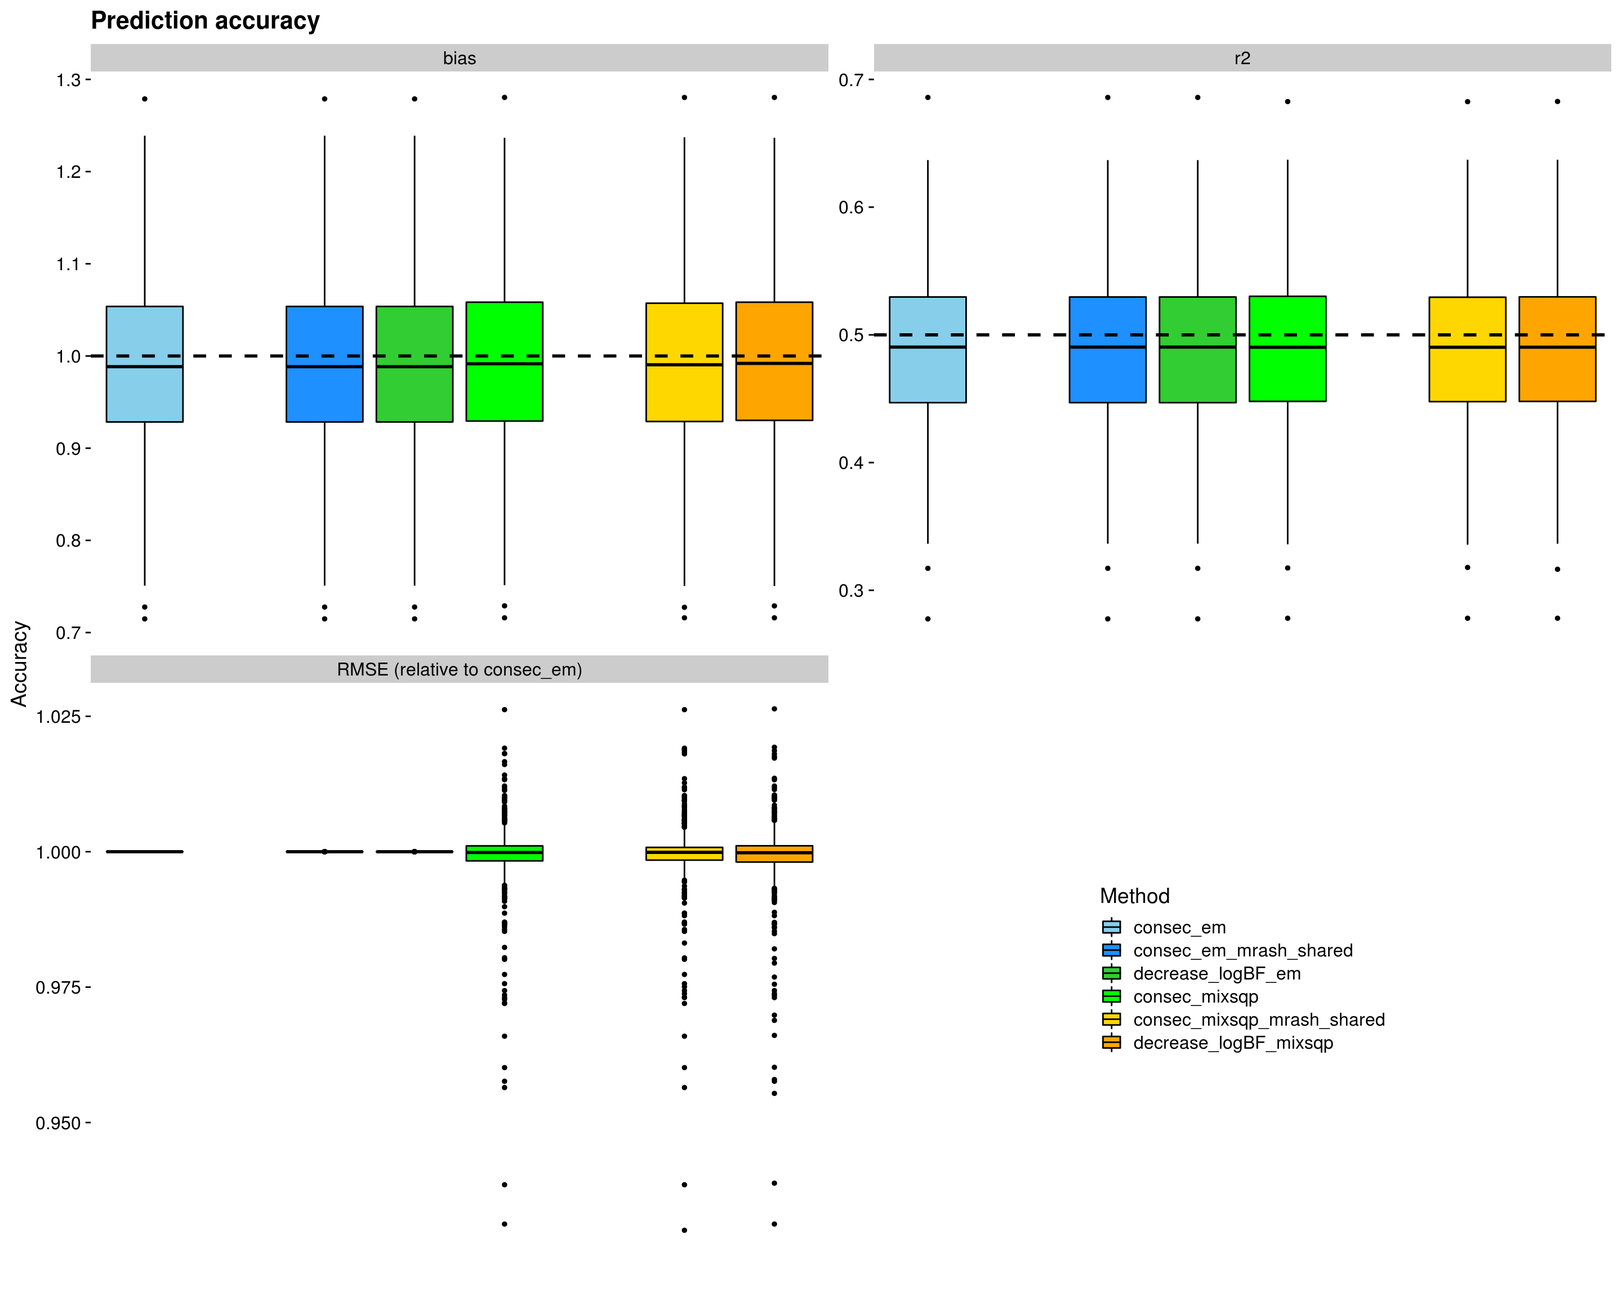
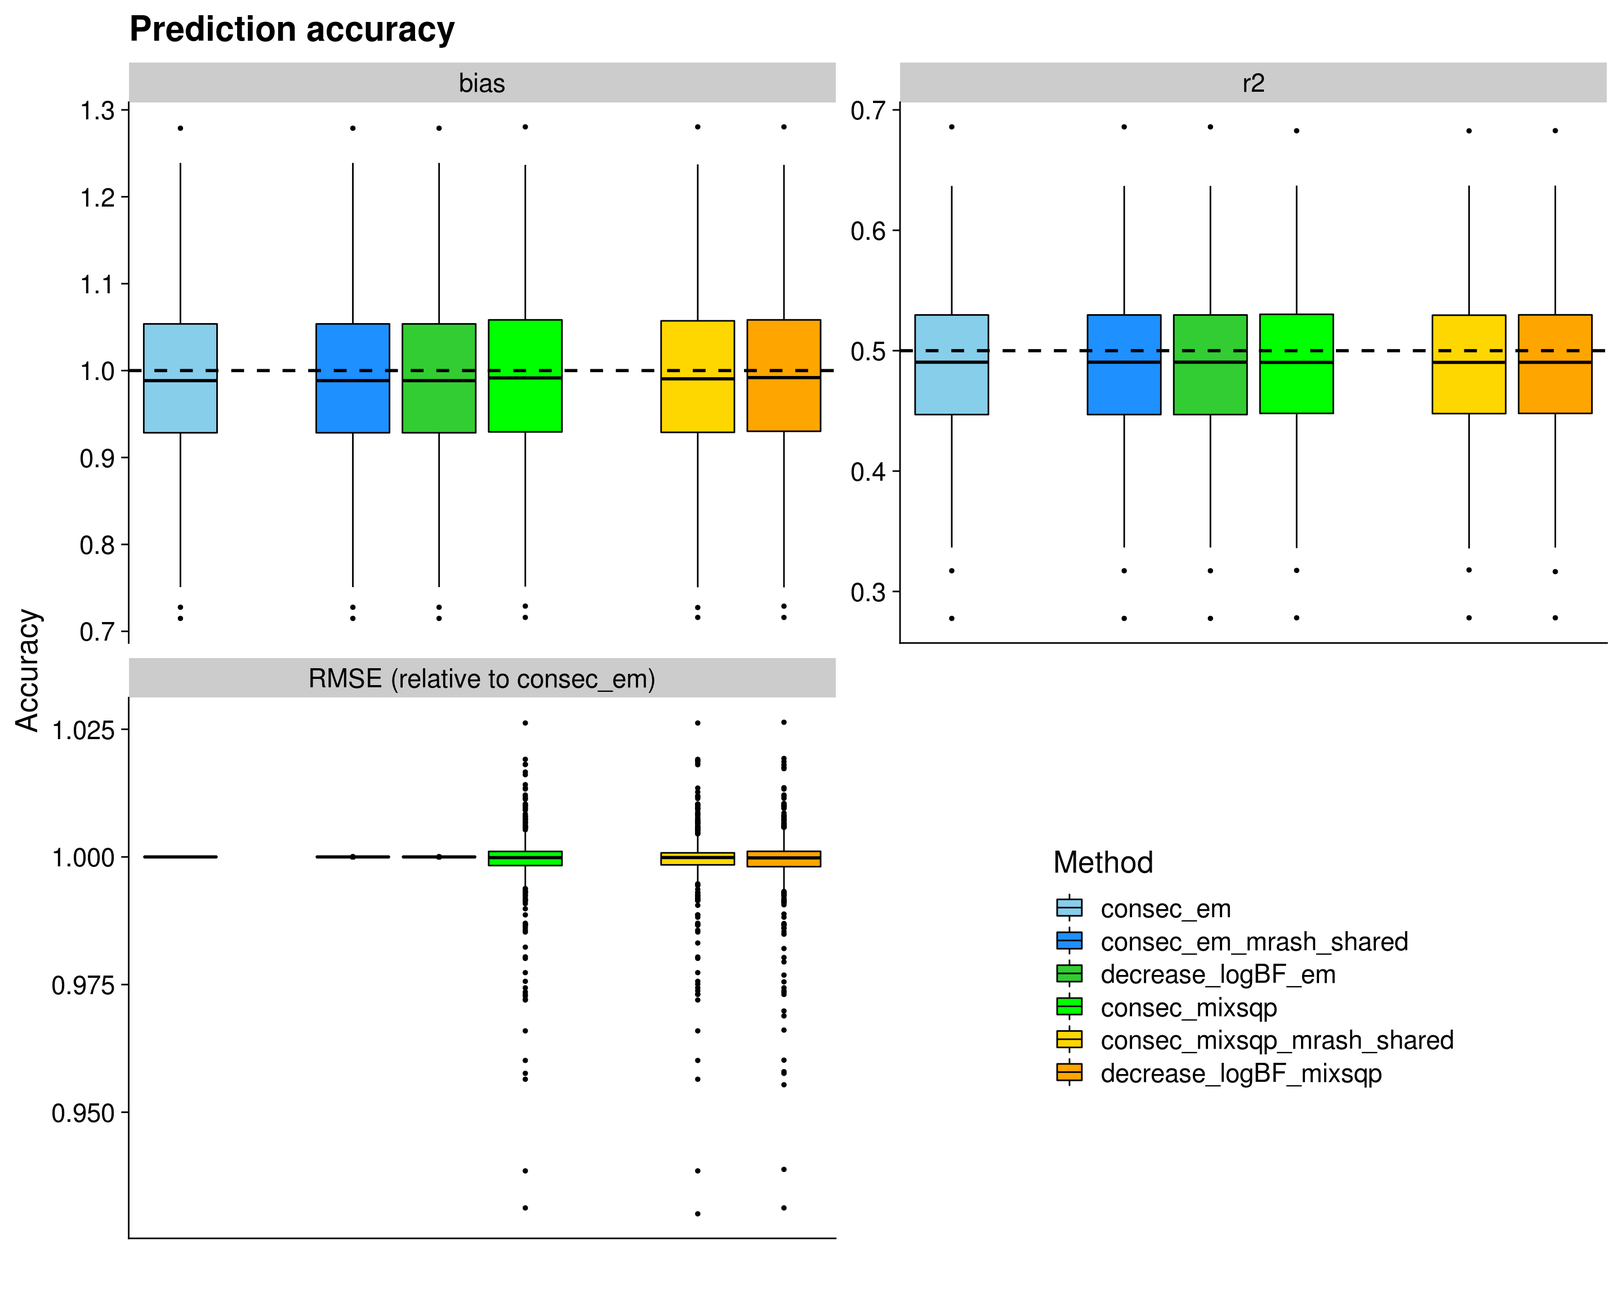
Build site.

diff --git a/docs/results_indepX_lowcorrV_sharedB.html b/docs/results_indepX_lowcorrV_sharedB.html
@@ -355,16 +355,16 @@ This reproducible <a href="http://rmarkdown.rstudio.com">R Markdown</a> analysis
 <div class="panel panel-default">
 <div class="panel-heading">
 <p class="panel-title">
-<a data-toggle="collapse" data-parent="#workflowr-checks" href="#strongRepositoryversionstrongahrefhttpsgithubcomfmorgantemrmashtesttreef6f65c4002c019f7d899a4d79d28e91fff5847c2targetblankf6f65c4a"> <span class="glyphicon glyphicon-ok text-success" aria-hidden="true"></span> <strong>Repository version:</strong> <a href="https://github.com/fmorgante/mr_mash_test/tree/f6f65c4002c019f7d899a4d79d28e91fff5847c2" target="_blank">f6f65c4</a> </a>
+<a data-toggle="collapse" data-parent="#workflowr-checks" href="#strongRepositoryversionstrongahrefhttpsgithubcomfmorgantemrmashtesttree26aee43125ae5d59b301dd6adbc001dc3285544etargetblank26aee43a"> <span class="glyphicon glyphicon-ok text-success" aria-hidden="true"></span> <strong>Repository version:</strong> <a href="https://github.com/fmorgante/mr_mash_test/tree/26aee43125ae5d59b301dd6adbc001dc3285544e" target="_blank">26aee43</a> </a>
 </p>
 </div>
[2 lines of base64/hex data omitted]
 <div class="panel-body">
 <p>
 Great! You are using Git for version control. Tracking code development and connecting the code version to the results is critical for reproducibility.
 </p>
 <p>
-The results in this page were generated with repository version <a href="https://github.com/fmorgante/mr_mash_test/tree/f6f65c4002c019f7d899a4d79d28e91fff5847c2" target="_blank">f6f65c4</a>. See the <em>Past versions</em> tab to see a history of the changes made to the R Markdown and HTML files.
+The results in this page were generated with repository version <a href="https://github.com/fmorgante/mr_mash_test/tree/26aee43125ae5d59b301dd6adbc001dc3285544e" target="_blank">26aee43</a>. See the <em>Past versions</em> tab to see a history of the changes made to the R Markdown and HTML files.
 </p>
 <p>
 Note that you need to be careful to ensure that all relevant files for the analysis have been committed to Git prior to generating the results (you can use <code>wflow_publish</code> or <code>wflow_git_commit</code>). workflowr only checks the R Markdown file, but you know if there are other scripts or data files that it depends on. Below is the status of the Git repository when the results were generated:
@@ -422,6 +422,40 @@ Message
 </tr>
 </thead>
 <tbody>
+<tr>
+<td>
+Rmd
+</td>
+<td>
+<a href="https://github.com/fmorgante/mr_mash_test/blob/26aee43125ae5d59b301dd6adbc001dc3285544e/analysis/results_indepX_lowcorrV_sharedB.Rmd" target="_blank">26aee43</a>
+</td>
+<td>
+fmorgante
+</td>
+<td>
+2020-04-16
+</td>
+<td>
+Increase font size
+</td>
+</tr>
+<tr>
+<td>
+html
+</td>
+<td>
+<a href="https://rawcdn.githack.com/fmorgante/mr_mash_test/8f4456e501a4a2fc84ce79a22b019057373d7816/docs/results_indepX_lowcorrV_sharedB.html" target="_blank">8f4456e</a>
+</td>
+<td>
+fmorgante
+</td>
+<td>
+2020-04-16
+</td>
+<td>
+Build site.
+</td>
+</tr>
 <tr>
 <td>
 html
@@ -634,7 +668,7 @@ dsc_out$simulate.V_offdiag_scale &lt;- NULL</code></pre>
 [5,] 0.15 0.15 0.15 0.15 1.00</code></pre>
 <p><em>mr.mash</em> was fitted to the training data (80% of the data) updating V and updating the prior weights. We investigate a few combinations of methods to update the prior weights (i.e., EM and mixSQP), orderings of the coordinate ascent updates (i.e., consecutive and decreasing logBF from a multivariate simple linear regression with MASH prior), and initialization of the posterior means of the regression coefficients (i.e., 0, from <em>mr.ash</em> assuming independent effects across tissues, and from <em>mr.ash</em> assuming shared effects across tissues). The mixture prior consisted of 166 components defined by a few canonical matrices correpsonding to different settings of effect sharing/specificity (i.e., zero, singletons, independent, low heterogeneity, medium heterogeneity, high heterogeneity, shared) scaled by a grid of values (i.e., from 0.1 to 2.1 in steps of 0.2). The same grid was used in <em>mr.ash</em> with the addition of 0. Convergence was declared when the maximum difference in the posterior mean of the regression coefficients between two successive iterations was smaller than 1e-4.</p>
 <p>Then, responses were predicted on the test data (20% of the data).</p>
-<p>Here, we evaluate the accuracy of prediction assessed by r^2 and bias (slope) from the regression of the true response on the predicted response, and the relative mean square error (RMSE) in the test data. The boxplots are across simulations and responses.</p>
+<p>Here, we evaluate the accuracy of prediction assessed by <span class="math">\(r^2\)</span> and bias (slope) from the regression of the true response on the predicted response, and the relative mean square error (RMSE) in the test data. The boxplots are across simulations and responses.</p>
 <pre class="r"><code>###Convert from list to data.frame for plotting
 dsc_plots &lt;- convert_dsc_to_dataframe(dsc_out)
 
@@ -665,8 +699,8 @@ p &lt;- ggplot(dsc_plots, aes_string(x = &quot;method_fac&quot;, y = &quot;score
     scale_fill_manual(values = colors) +
     labs(x = &quot;&quot;, y = &quot;Accuracy&quot;, title = &quot;Prediction accuracy&quot;, fill=&quot;Method&quot;) +
     geom_hline(data=hlines, aes(yintercept = max_val), linetype=&quot;dashed&quot;, size=1) +
-    theme_cowplot(font_size = 14) +
-    theme(axis.line = element_blank(), axis.text.x = element_blank(), axis.ticks.x = element_blank())
+    theme_cowplot(font_size = 20) +
+    theme(axis.text.x = element_blank(), axis.ticks.x = element_blank())
 
 shift_legend(p)</code></pre>
 <pre><code>Warning: Removed 3000 rows containing non-finite values (stat_boxplot).
@@ -717,8 +751,8 @@ fmorgante
   Ipaper::geom_boxplot2(color = &quot;black&quot;, outlier.size = 1, width = 0.85, width.errorbar = 0) +
   scale_fill_manual(values = colors) +
   labs(x = &quot;&quot;, y = &quot;Accuracy&quot;, title = &quot;RMSE (relative to consec_em)&quot;, fill=&quot;Method&quot;) +
-  theme_cowplot(font_size = 14) +
-  theme(axis.line = element_blank(), axis.text.x = element_blank(), axis.ticks.x = element_blank())
+  theme_cowplot(font_size = 20) +
+  theme(axis.text.x = element_blank(), axis.ticks.x = element_blank())
 
 print(p_rmse_nooutliers)</code></pre>
 <pre><code>Warning: Removed 1000 rows containing non-finite values (stat_boxplot).</code></pre>
@@ -760,7 +794,7 @@ fmorgante
 </table>
 </div>
 </div>
-<p>Here, we look at the elapsed time (log_{10} seconds) of <em>mr.mash</em>. Note that this time does not include the run time of <em>mr.ash</em> in the cases where we used it to initialize the posterior means of the regression coefficients.</p>
+<p>Here, we look at the elapsed time (<span class="math">\(log_{10}\)</span> seconds) of <em>mr.mash</em>. Note that this time does not include the run time of <em>mr.ash</em> in the cases where we used it to initialize the posterior means of the regression coefficients.</p>
 <pre class="r"><code>dsc_plots_time &lt;- dsc_plots[which(dsc_plots$response==1 &amp; dsc_plots$score_metric==&quot;r2&quot;), 
                           -which(colnames(dsc_plots) %in% c(&quot;score_metric&quot;, &quot;score_value&quot;, &quot;response&quot;))]
 
@@ -769,8 +803,8 @@ p_time &lt;- ggplot(dsc_plots_time, aes_string(x = &quot;method_fac&quot;, y = &
   scale_fill_manual(values = colors) +
   scale_y_continuous(trans=&#39;log10&#39;) +
   labs(x = &quot;&quot;, y = &quot;Elapsed time (log10(seconds))&quot;,title = &quot;Run time&quot;, fill=&quot;Method&quot;) +
-  theme_cowplot(font_size = 14) +
-  theme(axis.line = element_blank(), axis.text.x = element_blank(), axis.ticks.x = element_blank())
+  theme_cowplot(font_size = 20) +
+  theme(axis.text.x = element_blank(), axis.ticks.x = element_blank())
 
 print(p_time)</code></pre>
 <pre><code>Warning: Removed 1 rows containing non-finite values (stat_boxplot).</code></pre>

diff --git a/docs/results_convergence.html b/docs/results_convergence.html
@@ -355,16 +355,16 @@ This reproducible <a href="http://rmarkdown.rstudio.com">R Markdown</a> analysis
 <div class="panel panel-default">
 <div class="panel-heading">
 <p class="panel-title">
-<a data-toggle="collapse" data-parent="#workflowr-checks" href="#strongRepositoryversionstrongahrefhttpsgithubcomfmorgantemrmashtesttreef6f65c4002c019f7d899a4d79d28e91fff5847c2targetblankf6f65c4a"> <span class="glyphicon glyphicon-ok text-success" aria-hidden="true"></span> <strong>Repository version:</strong> <a href="https://github.com/fmorgante/mr_mash_test/tree/f6f65c4002c019f7d899a4d79d28e91fff5847c2" target="_blank">f6f65c4</a> </a>
+<a data-toggle="collapse" data-parent="#workflowr-checks" href="#strongRepositoryversionstrongahrefhttpsgithubcomfmorgantemrmashtesttree26aee43125ae5d59b301dd6adbc001dc3285544etargetblank26aee43a"> <span class="glyphicon glyphicon-ok text-success" aria-hidden="true"></span> <strong>Repository version:</strong> <a href="https://github.com/fmorgante/mr_mash_test/tree/26aee43125ae5d59b301dd6adbc001dc3285544e" target="_blank">26aee43</a> </a>
 </p>
 </div>
[2 lines of base64/hex data omitted]
 <div class="panel-body">
 <p>
 Great! You are using Git for version control. Tracking code development and connecting the code version to the results is critical for reproducibility.
 </p>
 <p>
-The results in this page were generated with repository version <a href="https://github.com/fmorgante/mr_mash_test/tree/f6f65c4002c019f7d899a4d79d28e91fff5847c2" target="_blank">f6f65c4</a>. See the <em>Past versions</em> tab to see a history of the changes made to the R Markdown and HTML files.
+The results in this page were generated with repository version <a href="https://github.com/fmorgante/mr_mash_test/tree/26aee43125ae5d59b301dd6adbc001dc3285544e" target="_blank">26aee43</a>. See the <em>Past versions</em> tab to see a history of the changes made to the R Markdown and HTML files.
 </p>
 <p>
 Note that you need to be careful to ensure that all relevant files for the analysis have been committed to Git prior to generating the results (you can use <code>wflow_publish</code> or <code>wflow_git_commit</code>). workflowr only checks the R Markdown file, but you know if there are other scripts or data files that it depends on. Below is the status of the Git repository when the results were generated:
@@ -422,6 +422,23 @@ Message
 </tr>
 </thead>
 <tbody>
+<tr>
+<td>
+html
+</td>
+<td>
+<a href="https://rawcdn.githack.com/fmorgante/mr_mash_test/8f4456e501a4a2fc84ce79a22b019057373d7816/docs/results_convergence.html" target="_blank">8f4456e</a>
+</td>
+<td>
+fmorgante
+</td>
+<td>
+2020-04-16
+</td>
+<td>
+Build site.
+</td>
+</tr>
 <tr>
 <td>
 html

diff --git a/docs/results_accuracy.html b/docs/results_accuracy.html
@@ -355,16 +355,16 @@ This reproducible <a href="http://rmarkdown.rstudio.com">R Markdown</a> analysis
 <div class="panel panel-default">
 <div class="panel-heading">
 <p class="panel-title">
-<a data-toggle="collapse" data-parent="#workflowr-checks" href="#strongRepositoryversionstrongahrefhttpsgithubcomfmorgantemrmashtesttreef6f65c4002c019f7d899a4d79d28e91fff5847c2targetblankf6f65c4a"> <span class="glyphicon glyphicon-ok text-success" aria-hidden="true"></span> <strong>Repository version:</strong> <a href="https://github.com/fmorgante/mr_mash_test/tree/f6f65c4002c019f7d899a4d79d28e91fff5847c2" target="_blank">f6f65c4</a> </a>
+<a data-toggle="collapse" data-parent="#workflowr-checks" href="#strongRepositoryversionstrongahrefhttpsgithubcomfmorgantemrmashtesttree26aee43125ae5d59b301dd6adbc001dc3285544etargetblank26aee43a"> <span class="glyphicon glyphicon-ok text-success" aria-hidden="true"></span> <strong>Repository version:</strong> <a href="https://github.com/fmorgante/mr_mash_test/tree/26aee43125ae5d59b301dd6adbc001dc3285544e" target="_blank">26aee43</a> </a>
 </p>
 </div>
[2 lines of base64/hex data omitted]
 <div class="panel-body">
 <p>
 Great! You are using Git for version control. Tracking code development and connecting the code version to the results is critical for reproducibility.
 </p>
 <p>
-The results in this page were generated with repository version <a href="https://github.com/fmorgante/mr_mash_test/tree/f6f65c4002c019f7d899a4d79d28e91fff5847c2" target="_blank">f6f65c4</a>. See the <em>Past versions</em> tab to see a history of the changes made to the R Markdown and HTML files.
+The results in this page were generated with repository version <a href="https://github.com/fmorgante/mr_mash_test/tree/26aee43125ae5d59b301dd6adbc001dc3285544e" target="_blank">26aee43</a>. See the <em>Past versions</em> tab to see a history of the changes made to the R Markdown and HTML files.
 </p>
 <p>
 Note that you need to be careful to ensure that all relevant files for the analysis have been committed to Git prior to generating the results (you can use <code>wflow_publish</code> or <code>wflow_git_commit</code>). workflowr only checks the R Markdown file, but you know if there are other scripts or data files that it depends on. Below is the status of the Git repository when the results were generated:
@@ -422,6 +422,23 @@ Message
 </tr>
 </thead>
 <tbody>
+<tr>
+<td>
+html
+</td>
+<td>
+<a href="https://rawcdn.githack.com/fmorgante/mr_mash_test/8f4456e501a4a2fc84ce79a22b019057373d7816/docs/results_accuracy.html" target="_blank">8f4456e</a>
+</td>
+<td>
+fmorgante
+</td>
+<td>
+2020-04-16
+</td>
+<td>
+Build site.
+</td>
+</tr>
 <tr>
 <td>
 html

diff --git a/docs/license.html b/docs/license.html
@@ -291,16 +291,16 @@ This reproducible <a href="http://rmarkdown.rstudio.com">R Markdown</a> analysis
 <div class="panel panel-default">
 <div class="panel-heading">
 <p class="panel-title">
-<a data-toggle="collapse" data-parent="#workflowr-checks" href="#strongRepositoryversionstrongahrefhttpsgithubcomfmorgantemrmashtesttreef6f65c4002c019f7d899a4d79d28e91fff5847c2targetblankf6f65c4a"> <span class="glyphicon glyphicon-ok text-success" aria-hidden="true"></span> <strong>Repository version:</strong> <a href="https://github.com/fmorgante/mr_mash_test/tree/f6f65c4002c019f7d899a4d79d28e91fff5847c2" target="_blank">f6f65c4</a> </a>
+<a data-toggle="collapse" data-parent="#workflowr-checks" href="#strongRepositoryversionstrongahrefhttpsgithubcomfmorgantemrmashtesttree26aee43125ae5d59b301dd6adbc001dc3285544etargetblank26aee43a"> <span class="glyphicon glyphicon-ok text-success" aria-hidden="true"></span> <strong>Repository version:</strong> <a href="https://github.com/fmorgante/mr_mash_test/tree/26aee43125ae5d59b301dd6adbc001dc3285544e" target="_blank">26aee43</a> </a>
 </p>
 </div>
[2 lines of base64/hex data omitted]
 <div class="panel-body">
 <p>
 Great! You are using Git for version control. Tracking code development and connecting the code version to the results is critical for reproducibility.
 </p>
 <p>
-The results in this page were generated with repository version <a href="https://github.com/fmorgante/mr_mash_test/tree/f6f65c4002c019f7d899a4d79d28e91fff5847c2" target="_blank">f6f65c4</a>. See the <em>Past versions</em> tab to see a history of the changes made to the R Markdown and HTML files.
+The results in this page were generated with repository version <a href="https://github.com/fmorgante/mr_mash_test/tree/26aee43125ae5d59b301dd6adbc001dc3285544e" target="_blank">26aee43</a>. See the <em>Past versions</em> tab to see a history of the changes made to the R Markdown and HTML files.
 </p>
 <p>
 Note that you need to be careful to ensure that all relevant files for the analysis have been committed to Git prior to generating the results (you can use <code>wflow_publish</code> or <code>wflow_git_commit</code>). workflowr only checks the R Markdown file, but you know if there are other scripts or data files that it depends on. Below is the status of the Git repository when the results were generated:
@@ -358,6 +358,23 @@ Message
 </tr>
 </thead>
 <tbody>
+<tr>
+<td>
+html
+</td>
+<td>
+<a href="https://rawcdn.githack.com/fmorgante/mr_mash_test/8f4456e501a4a2fc84ce79a22b019057373d7816/docs/license.html" target="_blank">8f4456e</a>
+</td>
+<td>
+fmorgante
+</td>
+<td>
+2020-04-16
+</td>
+<td>
+Build site.
+</td>
+</tr>
 <tr>
 <td>
 html

diff --git a/docs/about.html b/docs/about.html
@@ -291,16 +291,16 @@ This reproducible <a href="http://rmarkdown.rstudio.com">R Markdown</a> analysis
 <div class="panel panel-default">
 <div class="panel-heading">
 <p class="panel-title">
-<a data-toggle="collapse" data-parent="#workflowr-checks" href="#strongRepositoryversionstrongahrefhttpsgithubcomfmorgantemrmashtesttreef6f65c4002c019f7d899a4d79d28e91fff5847c2targetblankf6f65c4a"> <span class="glyphicon glyphicon-ok text-success" aria-hidden="true"></span> <strong>Repository version:</strong> <a href="https://github.com/fmorgante/mr_mash_test/tree/f6f65c4002c019f7d899a4d79d28e91fff5847c2" target="_blank">f6f65c4</a> </a>
+<a data-toggle="collapse" data-parent="#workflowr-checks" href="#strongRepositoryversionstrongahrefhttpsgithubcomfmorgantemrmashtesttree26aee43125ae5d59b301dd6adbc001dc3285544etargetblank26aee43a"> <span class="glyphicon glyphicon-ok text-success" aria-hidden="true"></span> <strong>Repository version:</strong> <a href="https://github.com/fmorgante/mr_mash_test/tree/26aee43125ae5d59b301dd6adbc001dc3285544e" target="_blank">26aee43</a> </a>
 </p>
 </div>
[2 lines of base64/hex data omitted]
 <div class="panel-body">
 <p>
 Great! You are using Git for version control. Tracking code development and connecting the code version to the results is critical for reproducibility.
 </p>
 <p>
-The results in this page were generated with repository version <a href="https://github.com/fmorgante/mr_mash_test/tree/f6f65c4002c019f7d899a4d79d28e91fff5847c2" target="_blank">f6f65c4</a>. See the <em>Past versions</em> tab to see a history of the changes made to the R Markdown and HTML files.
+The results in this page were generated with repository version <a href="https://github.com/fmorgante/mr_mash_test/tree/26aee43125ae5d59b301dd6adbc001dc3285544e" target="_blank">26aee43</a>. See the <em>Past versions</em> tab to see a history of the changes made to the R Markdown and HTML files.
 </p>
 <p>
 Note that you need to be careful to ensure that all relevant files for the analysis have been committed to Git prior to generating the results (you can use <code>wflow_publish</code> or <code>wflow_git_commit</code>). workflowr only checks the R Markdown file, but you know if there are other scripts or data files that it depends on. Below is the status of the Git repository when the results were generated:
@@ -358,6 +358,23 @@ Message
 </tr>
 </thead>
 <tbody>
+<tr>
+<td>
+html
+</td>
+<td>
+<a href="https://rawcdn.githack.com/fmorgante/mr_mash_test/8f4456e501a4a2fc84ce79a22b019057373d7816/docs/about.html" target="_blank">8f4456e</a>
+</td>
+<td>
+fmorgante
+</td>
+<td>
+2020-04-16
+</td>
+<td>
+Build site.
+</td>
+</tr>
 <tr>
 <td>
 html

diff --git a/docs/index.html b/docs/index.html
@@ -291,16 +291,16 @@ This reproducible <a href="http://rmarkdown.rstudio.com">R Markdown</a> analysis
 <div class="panel panel-default">
 <div class="panel-heading">
 <p class="panel-title">
-<a data-toggle="collapse" data-parent="#workflowr-checks" href="#strongRepositoryversionstrongahrefhttpsgithubcomfmorgantemrmashtesttreef6f65c4002c019f7d899a4d79d28e91fff5847c2targetblankf6f65c4a"> <span class="glyphicon glyphicon-ok text-success" aria-hidden="true"></span> <strong>Repository version:</strong> <a href="https://github.com/fmorgante/mr_mash_test/tree/f6f65c4002c019f7d899a4d79d28e91fff5847c2" target="_blank">f6f65c4</a> </a>
+<a data-toggle="collapse" data-parent="#workflowr-checks" href="#strongRepositoryversionstrongahrefhttpsgithubcomfmorgantemrmashtesttree26aee43125ae5d59b301dd6adbc001dc3285544etargetblank26aee43a"> <span class="glyphicon glyphicon-ok text-success" aria-hidden="true"></span> <strong>Repository version:</strong> <a href="https://github.com/fmorgante/mr_mash_test/tree/26aee43125ae5d59b301dd6adbc001dc3285544e" target="_blank">26aee43</a> </a>
 </p>
 </div>
[2 lines of base64/hex data omitted]
 <div class="panel-body">
 <p>
 Great! You are using Git for version control. Tracking code development and connecting the code version to the results is critical for reproducibility.
 </p>
 <p>
-The results in this page were generated with repository version <a href="https://github.com/fmorgante/mr_mash_test/tree/f6f65c4002c019f7d899a4d79d28e91fff5847c2" target="_blank">f6f65c4</a>. See the <em>Past versions</em> tab to see a history of the changes made to the R Markdown and HTML files.
+The results in this page were generated with repository version <a href="https://github.com/fmorgante/mr_mash_test/tree/26aee43125ae5d59b301dd6adbc001dc3285544e" target="_blank">26aee43</a>. See the <em>Past versions</em> tab to see a history of the changes made to the R Markdown and HTML files.
 </p>
 <p>
 Note that you need to be careful to ensure that all relevant files for the analysis have been committed to Git prior to generating the results (you can use <code>wflow_publish</code> or <code>wflow_git_commit</code>). workflowr only checks the R Markdown file, but you know if there are other scripts or data files that it depends on. Below is the status of the Git repository when the results were generated:
@@ -358,6 +358,23 @@ Message
 </tr>
 </thead>
 <tbody>
+<tr>
+<td>
+html
+</td>
+<td>
+<a href="https://rawcdn.githack.com/fmorgante/mr_mash_test/8f4456e501a4a2fc84ce79a22b019057373d7816/docs/index.html" target="_blank">8f4456e</a>
+</td>
+<td>
+fmorgante
+</td>
+<td>
+2020-04-16
+</td>
+<td>
+Build site.
+</td>
+</tr>
 <tr>
 <td>
 Rmd
